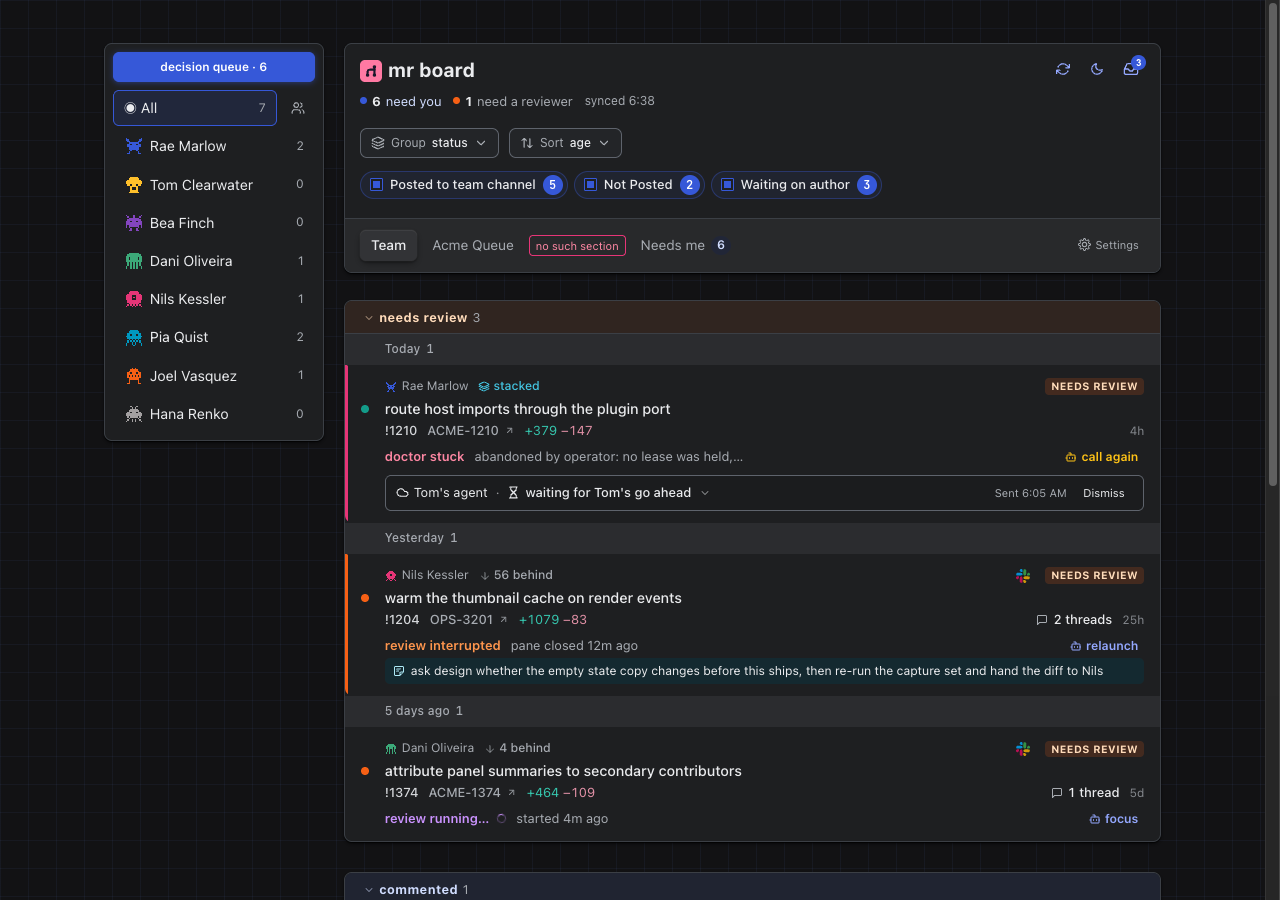
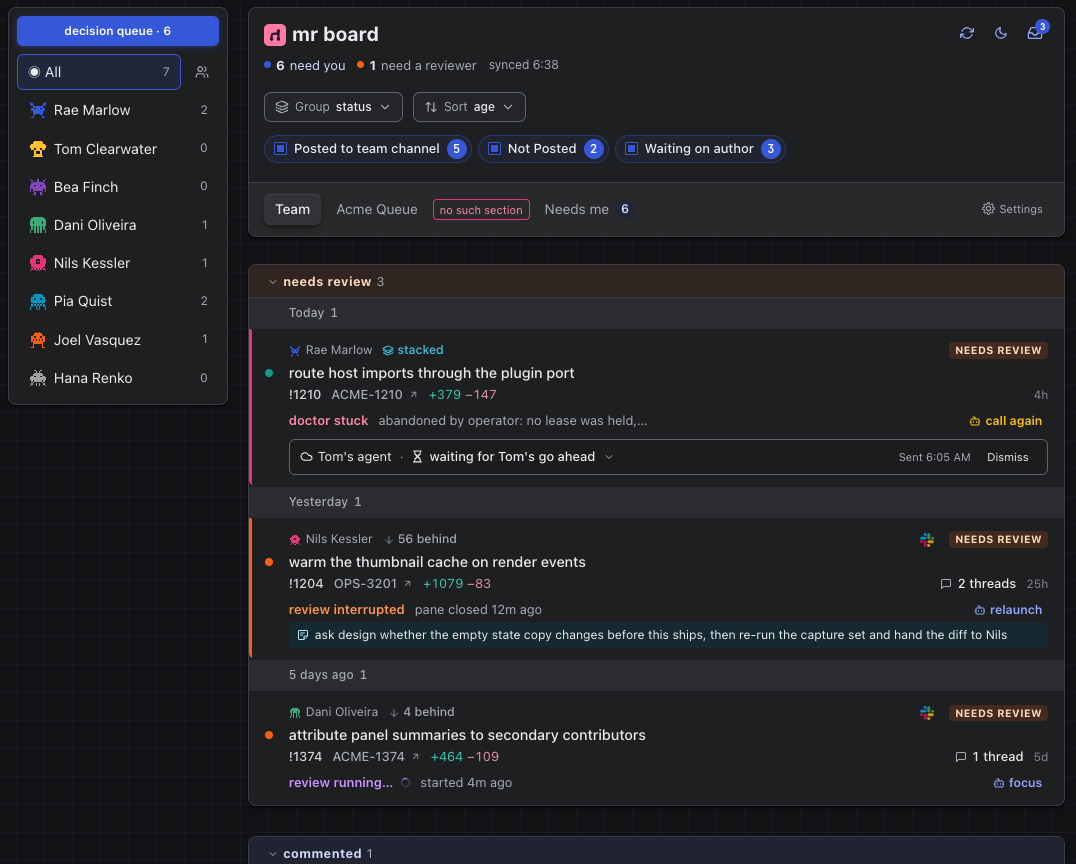
docs: framed screenshots, readable key caps and unwrapped key columns on the guides

diff --git a/website/src/components/BoardIcon.tsx b/website/src/components/BoardIcon.tsx
@@ -106,7 +106,7 @@ export default function BoardIcon({ name, lane, emoji }: { name?: Name; lane?: L
   if (name === "agentCloud") return <AgentCloud label={label} />;
   if (name === "slack")
     return (
-      <svg className={styles.icon} width={15} height={15} viewBox="0 0 400 400" role="img" aria-label="slack">
+      <svg className={styles.icon} width={16} height={16} viewBox="0 0 400 400" role="img" aria-label="slack">
         {SLACK_TILES.map(([fill, d]) => (
           <path key={fill} fill={fill} d={d} />
         ))}
@@ -116,8 +116,8 @@ export default function BoardIcon({ name, lane, emoji }: { name?: Name; lane?: L
     <svg
       {...STROKE}
       className={`${styles.icon} ${lane ? styles[lane] : ""}`}
-      width={15}
-      height={15}
+      width={17}
+      height={17}
       role="img"
       aria-label={label}
     >

diff --git a/website/src/components/Screenshot.tsx b/website/src/components/Screenshot.tsx
@@ -1,0 +1,11 @@
+import React from "react";
+import ThemedImage from "@theme/ThemedImage";
+import styles from "./Screenshot.module.css";
+
+export default function Screenshot({ name, alt }: { name: string; alt: string }) {
+  return (
+    <figure className={styles.figure}>
+      <ThemedImage alt={alt} sources={{ light: `/img/${name}-light.png`, dark: `/img/${name}-dark.png` }} />
+    </figure>
+  );
+}

diff --git a/website/src/css/custom.css b/website/src/css/custom.css
@@ -482,3 +482,14 @@ a code {
 .footer {
   border-top: 1px solid var(--ms-border-soft);
 }
+
+/* Key symbols such as ⌘ and ⇧ are unreadable at Infima's small kbd size. */
+.markdown kbd {
+  font-family: var(--ifm-font-family-base);
+  font-size: 0.85em;
+  padding: 0.05rem 0.35rem;
+}
+
+.keys-table td:first-child {
+  white-space: nowrap;
+}

diff --git a/website/src/components/Screenshot.module.css b/website/src/components/Screenshot.module.css
@@ -1,0 +1,10 @@
+.figure {
+  margin: 0 0 var(--ifm-leading);
+}
+
+.figure img {
+  display: block;
+  max-width: 100%;
+  border: 1px solid var(--ms-border);
+  border-radius: 8px;
+}
